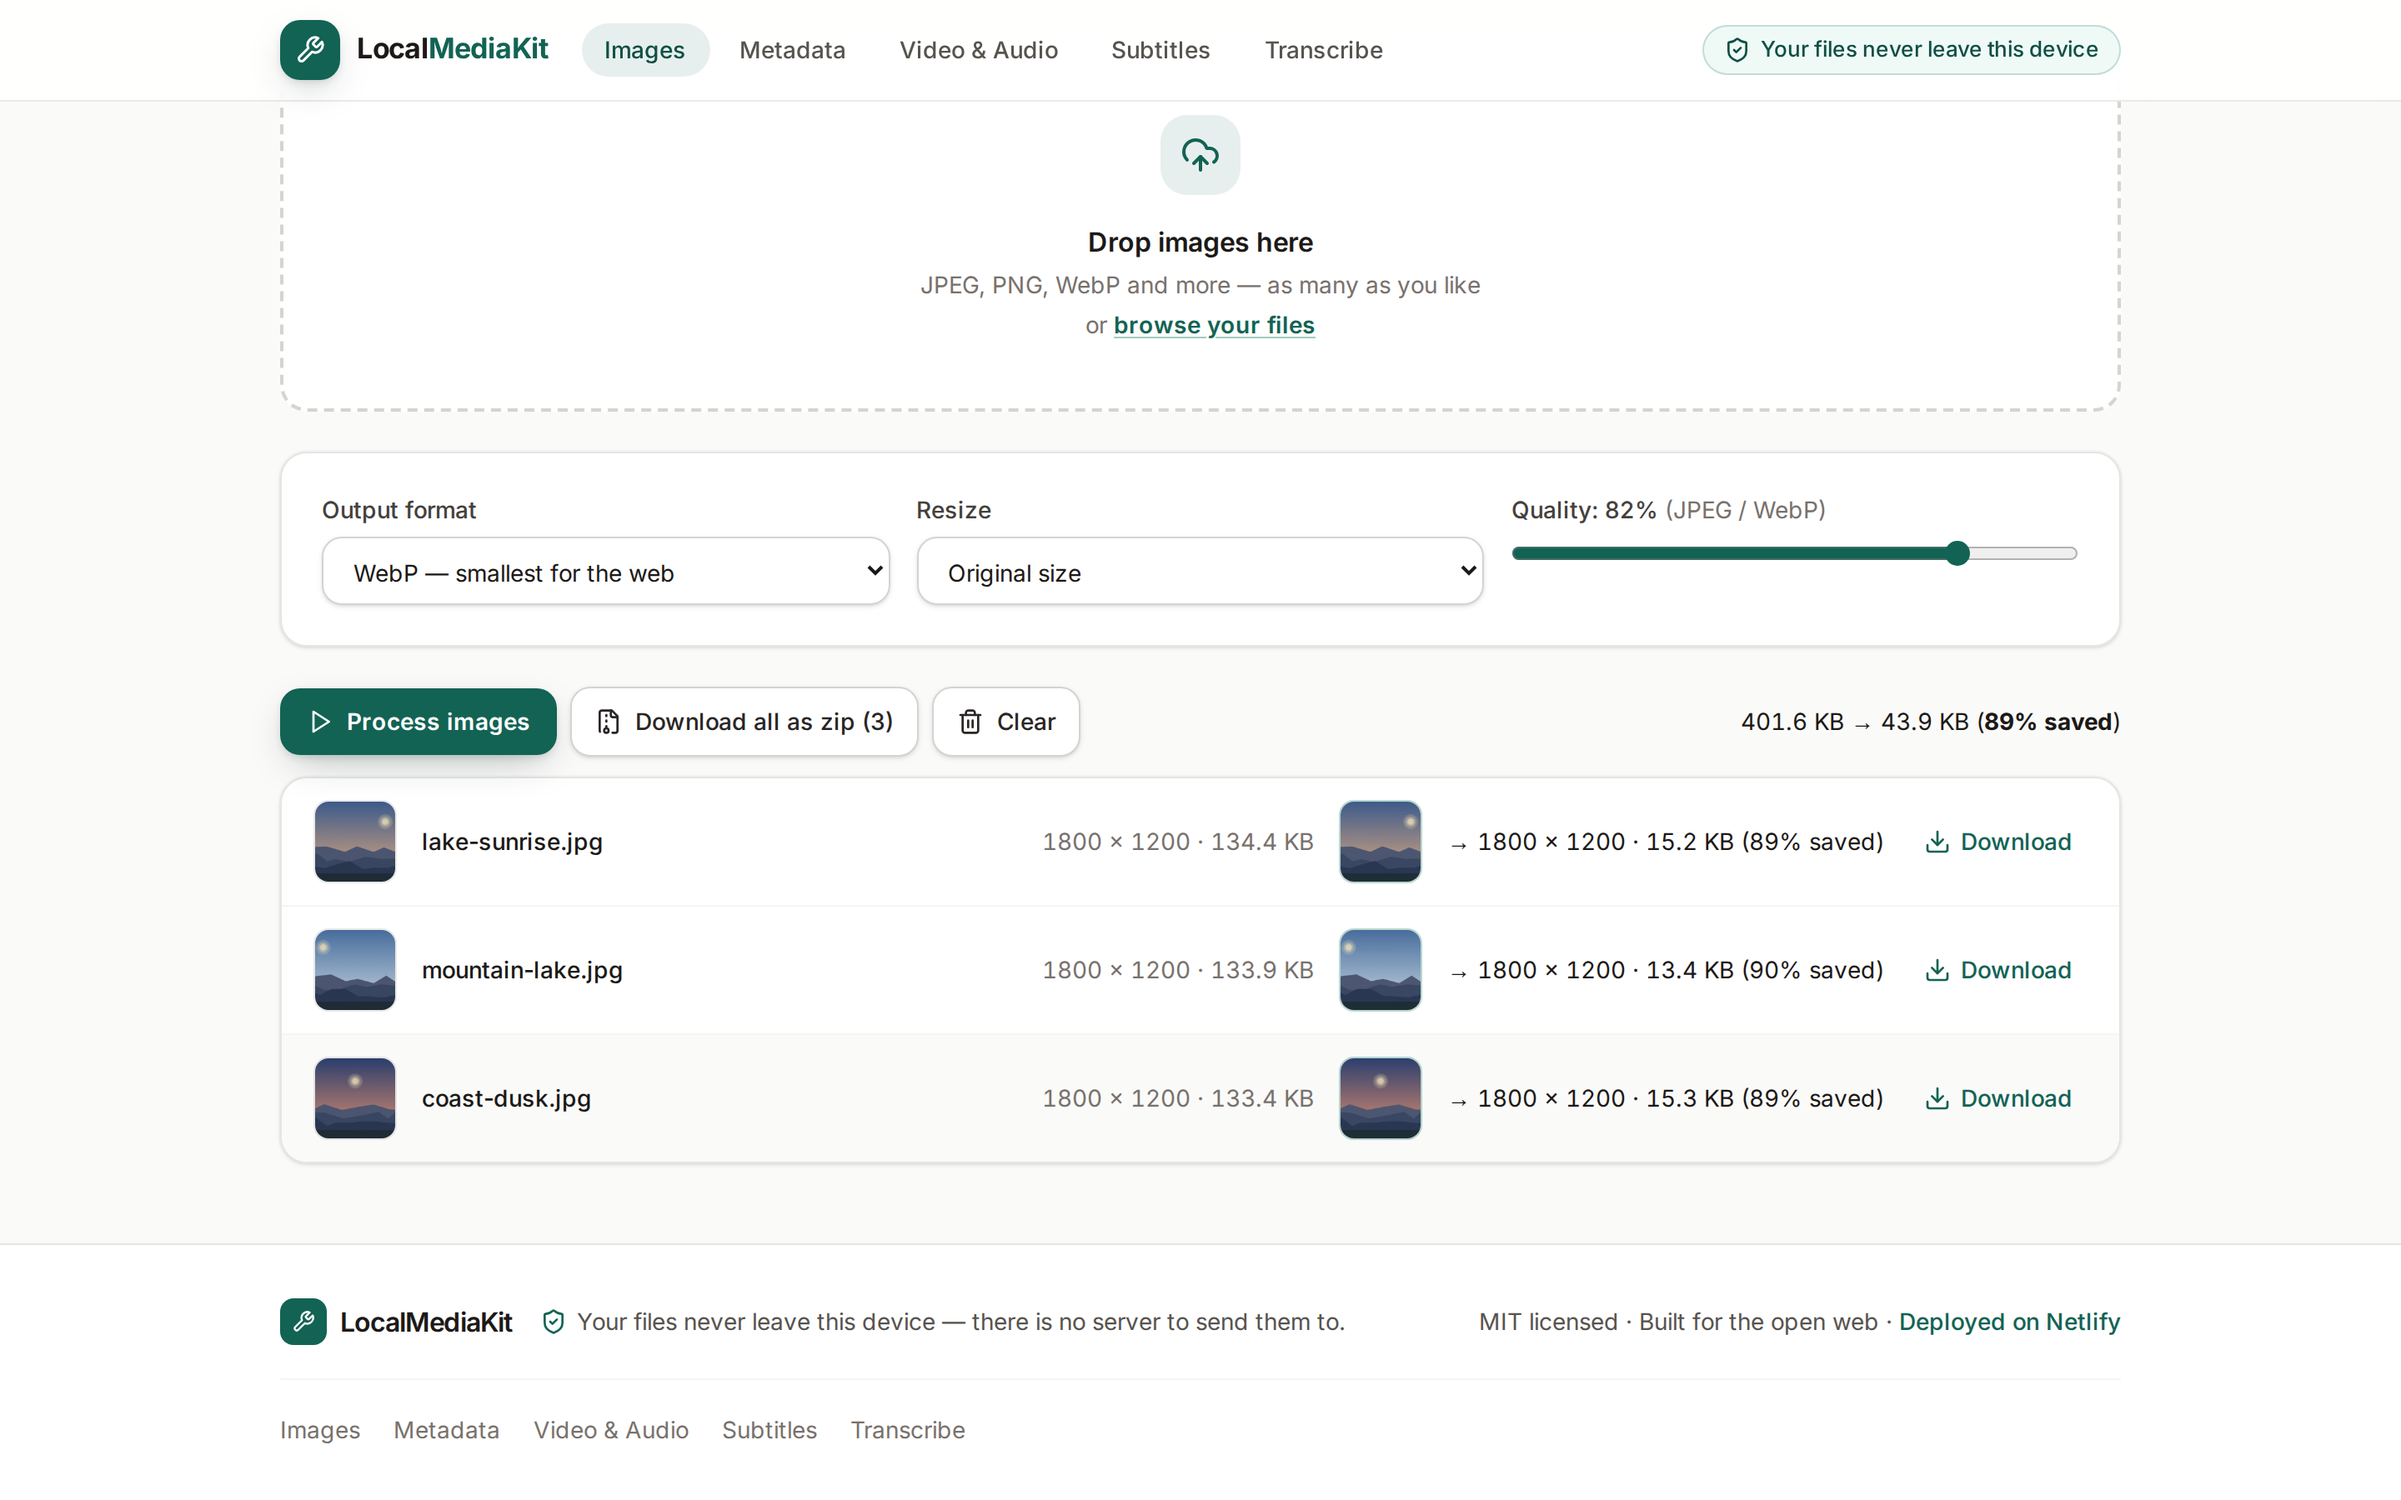
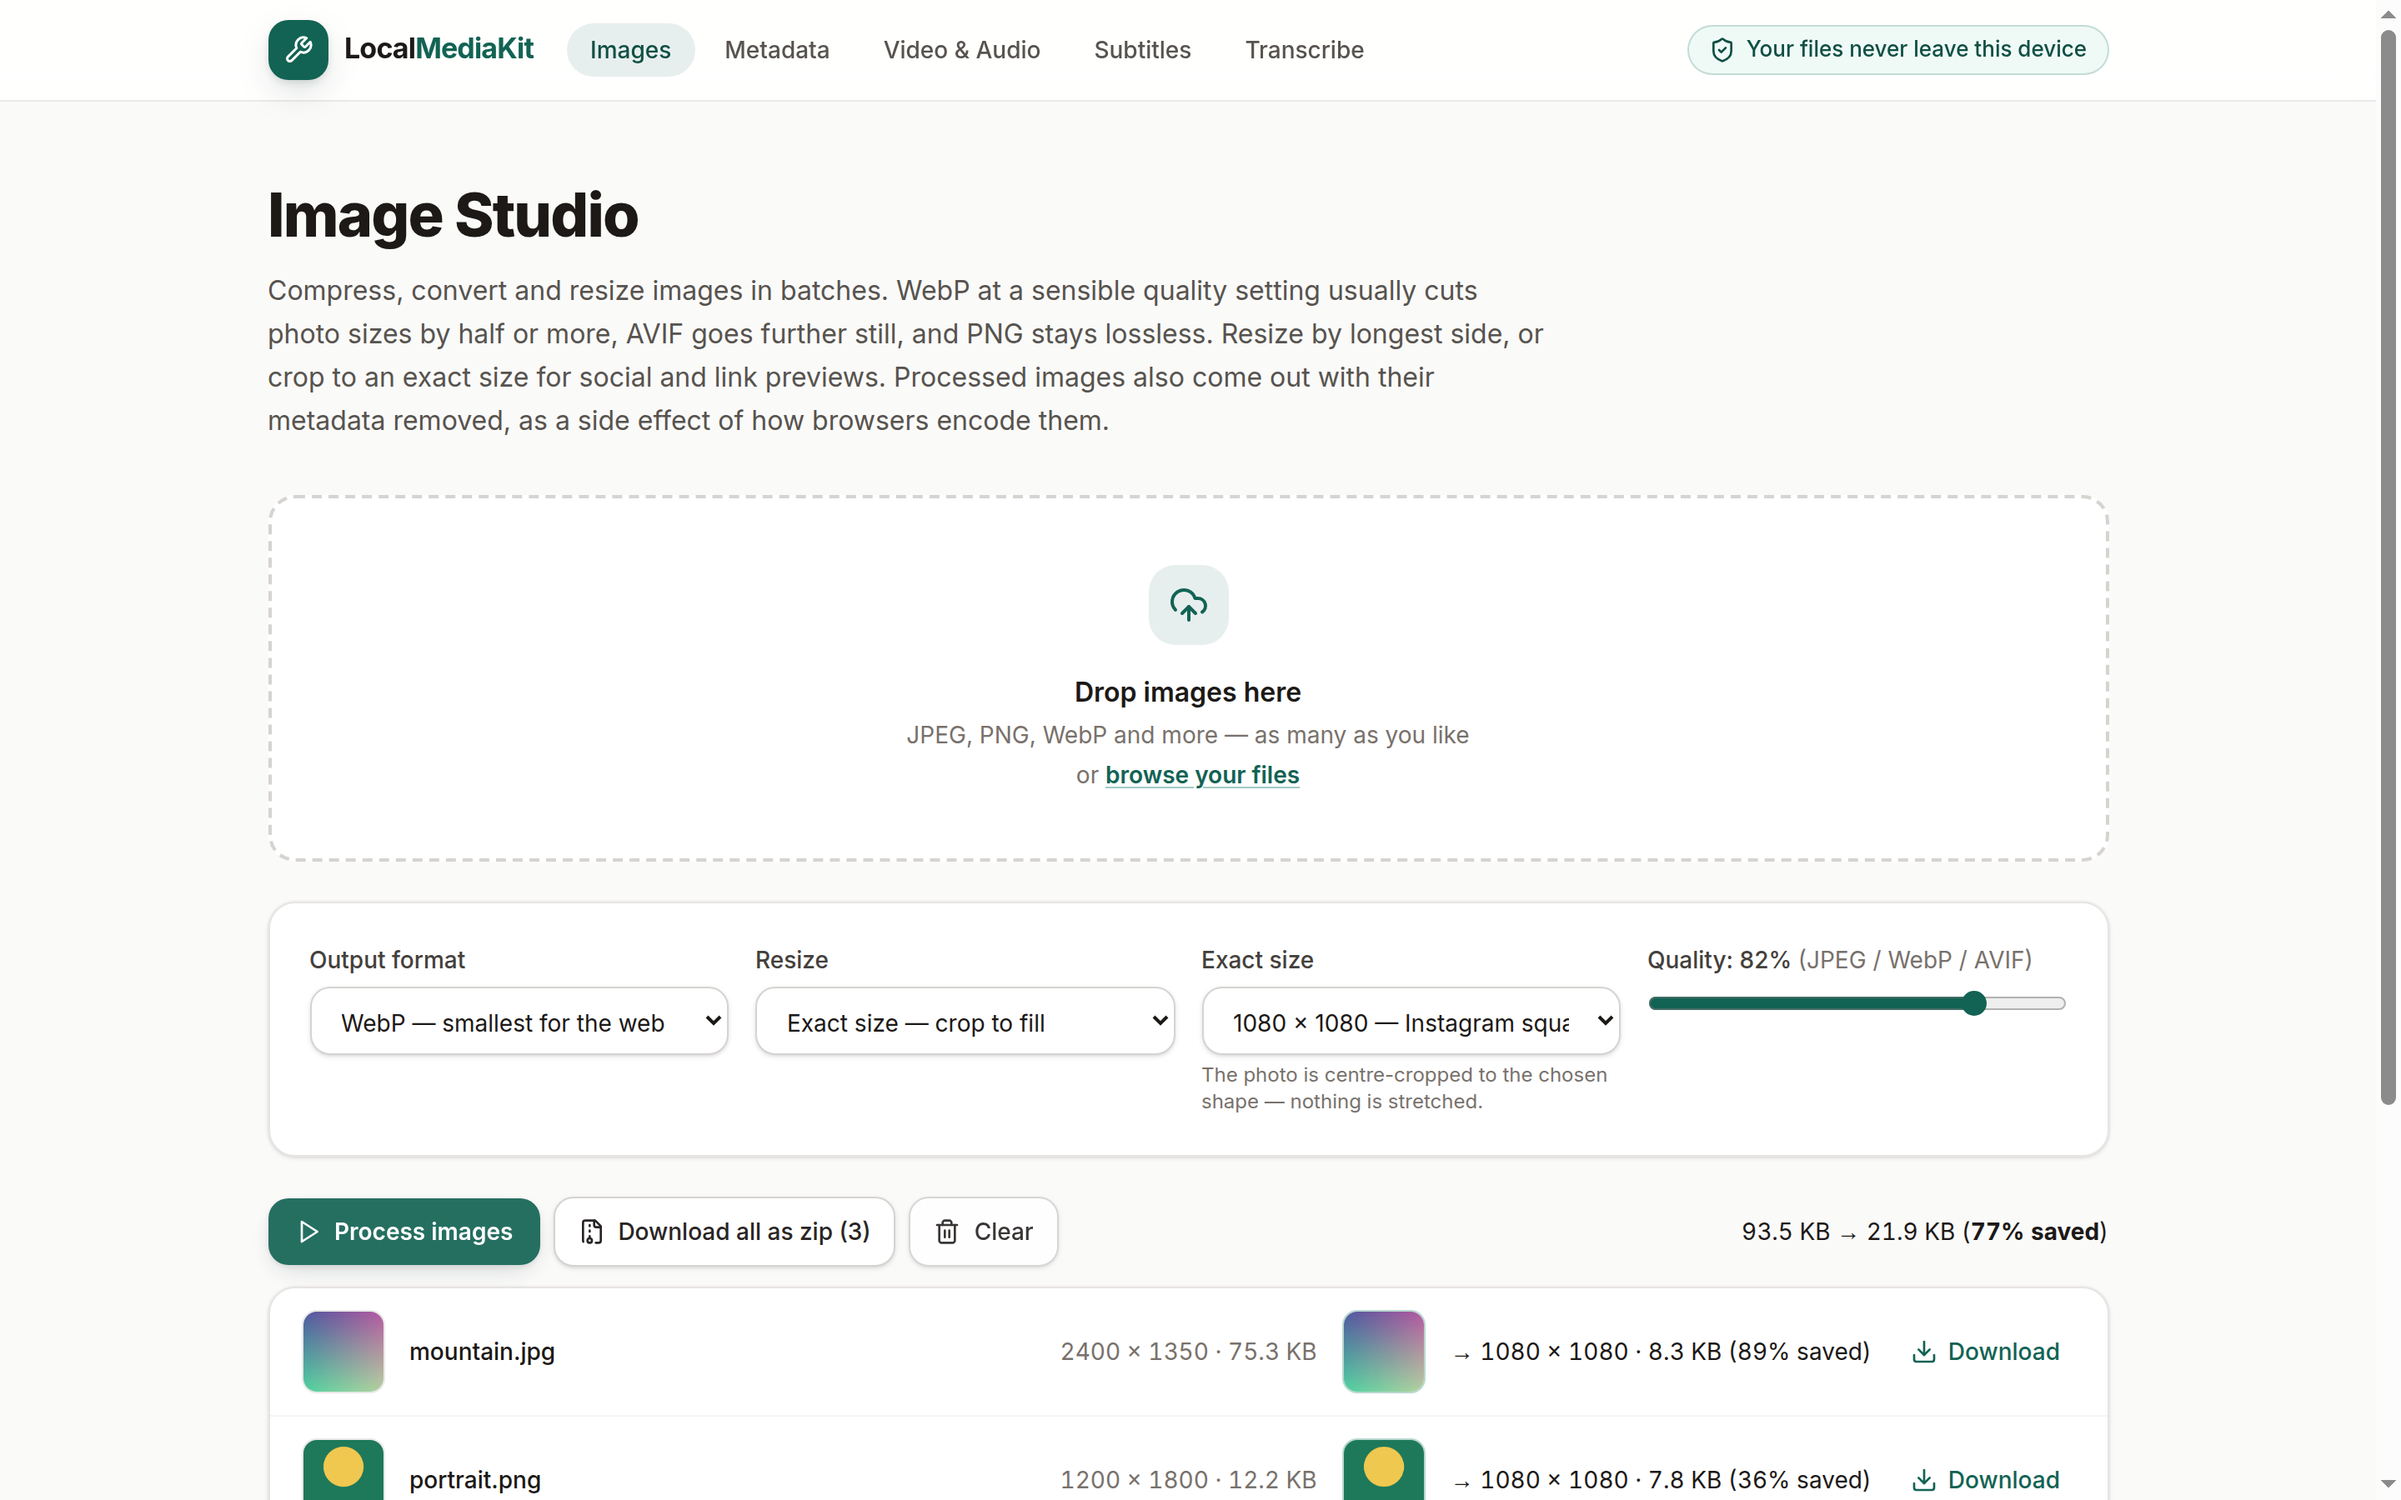
Docs: README + changelog for AVIF/exact-size/batch features; refresh image-studio + subtitles screenshots; prettier pass on touched files

diff --git a/src/pages/SubtitleTools.tsx b/src/pages/SubtitleTools.tsx
@@ -134,9 +134,8 @@ export default function SubtitleTools() {
     <div>
       <PageHeader title="Subtitle Tools">
         Convert between SRT (the format most players and editors use) and WebVTT (the format web
-        players need), fix captions that drift out of sync, and remove formatting tags — one file
-        at a time or a whole season in a batch — all by editing the text locally, never uploading
-        it.
+        players need), fix captions that drift out of sync, and remove formatting tags — one file at
+        a time or a whole season in a batch — all by editing the text locally, never uploading it.
       </PageHeader>
 
       <Dropzone
@@ -237,18 +236,14 @@ export default function SubtitleTools() {
                 <FileArchive className="h-4 w-4" aria-hidden />
                 Download all as zip ({downloadableBatch.length})
               </button>
-              <button
-                type="button"
-                className={secondaryButtonClass}
-                onClick={() => setBatch([])}
-              >
+              <button type="button" className={secondaryButtonClass} onClick={() => setBatch([])}>
                 <Trash2 className="h-4 w-4" aria-hidden /> Clear batch
               </button>
             </div>
           </div>
           <p className="mb-3 text-sm text-zinc-600 dark:text-zinc-400">
-            Every file below is converted with the settings above — change the format, shift or
-            tag stripping and the whole batch updates.
+            Every file below is converted with the settings above — change the format, shift or tag
+            stripping and the whole batch updates.
           </p>
           <ul
             className={`${cardClass} divide-y divide-zinc-100 overflow-hidden dark:divide-zinc-800`}

diff --git a/src/pages/ImageStudio.tsx b/src/pages/ImageStudio.tsx
@@ -118,8 +118,7 @@ export default function ImageStudio() {
         // the canvas-native formats, everything else falls back to JPEG.
         const format =
           formatChoice === "keep"
-            ? (formatFromMime(job.file.type) ??
-              (job.file.type === "image/avif" ? "avif" : "jpeg"))
+            ? (formatFromMime(job.file.type) ?? (job.file.type === "image/avif" ? "avif" : "jpeg"))
             : formatChoice;
         const processed = await processImage(job.file, {
           format,
@@ -183,9 +182,9 @@ export default function ImageStudio() {
     <div>
       <PageHeader title="Image Studio">
         Compress, convert and resize images in batches. WebP at a sensible quality setting usually
-        cuts photo sizes by half or more, AVIF goes further still, and PNG stays lossless. Resize
-        by longest side, or crop to an exact size for social and link previews. Processed images
-        also come out with their metadata removed, as a side effect of how browsers encode them.
+        cuts photo sizes by half or more, AVIF goes further still, and PNG stays lossless. Resize by
+        longest side, or crop to an exact size for social and link previews. Processed images also
+        come out with their metadata removed, as a side effect of how browsers encode them.
       </PageHeader>
 
       <Dropzone

diff --git a/src/lib/subtitles.test.ts b/src/lib/subtitles.test.ts
@@ -185,7 +185,8 @@ describe("detectFormat", () => {
 });
 
 describe("convertSubtitles", () => {
-  const srt = "1\n00:00:01,000 --> 00:00:03,000\n<i>Hello</i> world\n\n2\n00:00:04,000 --> 00:00:05,500\nSecond line\n";
+  const srt =
+    "1\n00:00:01,000 --> 00:00:03,000\n<i>Hello</i> world\n\n2\n00:00:04,000 --> 00:00:05,500\nSecond line\n";
 
   it("converts SRT to VTT end to end", () => {
     const result = convertSubtitles(srt, { outputFormat: "vtt", shiftMs: 0, strip: false });
@@ -203,7 +204,9 @@ describe("convertSubtitles", () => {
   });
 
   it("returns null when the input has no cues", () => {
-    expect(convertSubtitles("just some prose", { outputFormat: "vtt", shiftMs: 0, strip: false })).toBeNull();
+    expect(
+      convertSubtitles("just some prose", { outputFormat: "vtt", shiftMs: 0, strip: false }),
+    ).toBeNull();
     expect(convertSubtitles("", { outputFormat: "srt", shiftMs: 0, strip: false })).toBeNull();
   });
 });

diff --git a/src/lib/image.ts b/src/lib/image.ts
@@ -188,7 +188,17 @@ export async function processImage(file: File, options: ImageOptions): Promise<P
     }
     if (options.exactSize) {
       const crop = coverCropRect(source, target);
-      context.drawImage(bitmap, crop.sx, crop.sy, crop.sw, crop.sh, 0, 0, target.width, target.height);
+      context.drawImage(
+        bitmap,
+        crop.sx,
+        crop.sy,
+        crop.sw,
+        crop.sh,
+        0,
+        0,
+        target.width,
+        target.height,
+      );
     } else {
       context.drawImage(bitmap, 0, 0, target.width, target.height);
     }

diff --git a/src/lib/subtitles.ts b/src/lib/subtitles.ts
@@ -162,7 +162,10 @@ export interface ConvertedSubtitles {
  * one pasted file and batch-converting twenty dropped files run exactly the
  * same code. Returns null when the input contains no cues at all.
  */
-export function convertSubtitles(content: string, options: ConvertOptions): ConvertedSubtitles | null {
+export function convertSubtitles(
+  content: string,
+  options: ConvertOptions,
+): ConvertedSubtitles | null {
   const cues = parseSubtitles(content);
   if (cues.length === 0) return null;
   let working = cues;

diff --git a/README.md b/README.md
@@ -48,17 +48,23 @@ sites, with no uploads, no accounts, and no file-size upsells. Your files never 
 ## The tools
 
 ### 🖼 Image Studio
-Batch-compress photos with a quality slider, convert between JPEG / PNG / WebP, and resize
-with sensible presets (4K, Full HD, blog, email). See before/after sizes and the savings
-percentage per file, download individually, or grab everything as one zip.
+
+Batch-compress photos with a quality slider, convert between JPEG / PNG / WebP / AVIF (the
+AVIF option explains itself when the browser can't encode it — and a file is never silently
+handed back in the wrong format), and resize two ways: longest-side presets (4K, Full HD,
+blog, email) or exact sizes cropped to fill — 1200×630 link previews, 1080×1080 squares,
+stories, or your own custom dimensions. See before/after sizes and the savings percentage
+per file, download individually, or grab everything as one zip.
 
 ### 🛡 Metadata Stripper
+
 See what a photo reveals about you — camera model, when it was taken, the software that
 edited it, and GPS coordinates, with a plain-language warning when location is present.
 Strip it all with one click, and verify: the cleaned file is re-read and its (empty)
 metadata shown back to you as proof.
 
 ### 🎬 Video & Audio Studio
+
 Real ffmpeg, compiled to WebAssembly, running in the tab:
 
 - **Convert** video to MP4 or WebM
@@ -68,10 +74,14 @@ Real ffmpeg, compiled to WebAssembly, running in the tab:
 - **Trim** clips with frame-accurate cuts (re-encoded on purpose — stream copies drift)
 
 ### 💬 Subtitle Tools
+
 Convert SRT ↔ WebVTT, shift timings that are out of sync (positive or negative, clamped at
 zero), and strip formatting tags (`<i>`, colours, positioning) down to the spoken words.
+Drop several files to batch-convert them all with the same settings, then download them
+individually or as one zip.
 
 ### 🎙 Transcribe — Beta
+
 Speech-to-text on your own machine with OpenAI's Whisper (`whisper-tiny.en`) via
 Transformers.js. Produces a plain transcript and a downloadable `.srt`. Honestly labelled
 Beta: the tiny local model is less accurate than cloud services — it is a good first draft,

diff --git a/docs/screenshots/README.md b/docs/screenshots/README.md
@@ -7,12 +7,15 @@ generated — capture real ones from the running app. Current set captured
 1. `home.png` — the home page at desktop width, showing the tool cards.
 2. `home-dark.png` — the home page in dark mode (system theme).
 3. `image-studio.png` — Image Studio with 3–4 photos processed, showing
-   before/after sizes and the savings total.
+   before/after sizes and the savings total. (Current capture uses the
+   exact-size crop mode at 1080×1080, re-captured 2026-11-13.)
 4. `metadata.png` — Metadata Stripper showing a GPS warning on a throwaway
    test photo (take one outside a random public place — never your home).
 5. `video-studio.png` — Video & Audio Studio mid-job or with a finished
    result and its download button.
-6. `subtitles.png` — Subtitle Tools with a small sample file loaded.
+6. `subtitles.png` — Subtitle Tools with sample files loaded, showing the
+   batch panel (re-captured 2026-11-13 at a taller 1440×1400 viewport so
+   the batch list fits in frame).
 7. `transcribe.png` — Transcribe with an audio file queued, ready to run.
 
 Tips: use the same throwaway sample files for all of them, and keep each

diff --git a/CHANGELOG.md b/CHANGELOG.md
@@ -4,6 +4,19 @@ All notable changes to this project are documented here.
 The format is based on [Keep a Changelog](https://keepachangelog.com/en/1.1.0/),
 and this project adheres to [Semantic Versioning](https://semver.org/spec/v2.0.0.html).
 
+## [Unreleased]
+
+### Added
+
+- **Image Studio** — AVIF output (with an up-front browser-support probe; a
+  browser that cannot encode AVIF gets an honest per-file error instead of a
+  mislabelled PNG), and exact-size resizing: centre-crop to social/link
+  presets (1200×630, 1080×1080, 1080×1350, 1920×1080, 1080×1920) or custom
+  dimensions, never upscaling a too-small source.
+- **Subtitle Tools** — batch conversion: drop multiple .srt/.vtt files, apply
+  the same format/shift/strip settings to all of them, download individually
+  or as one zip.
+
 ## [1.0.0] - 2026-11-06
 
 ### Added
